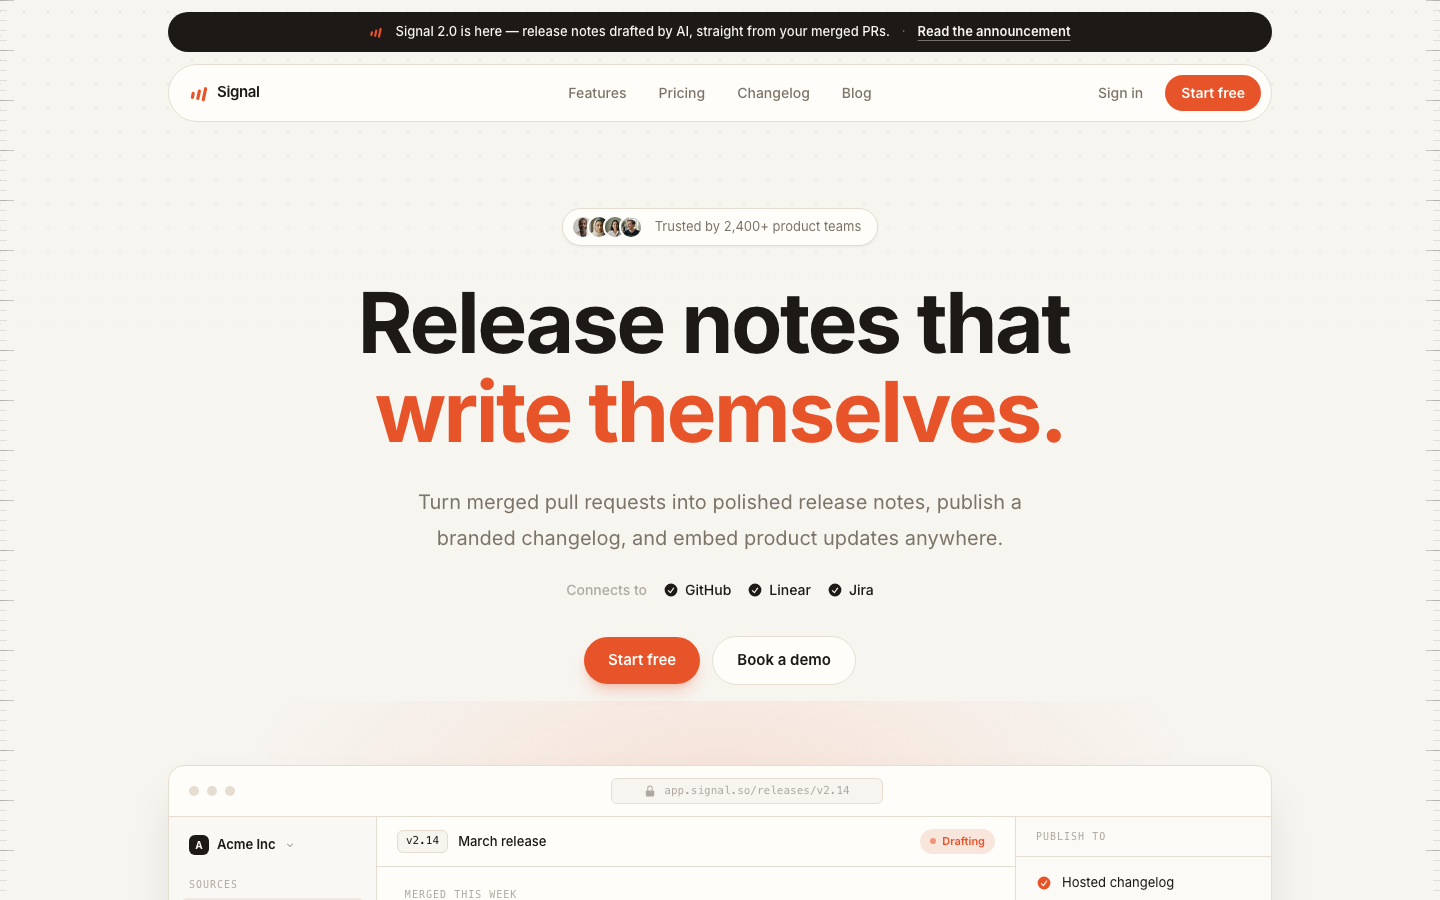
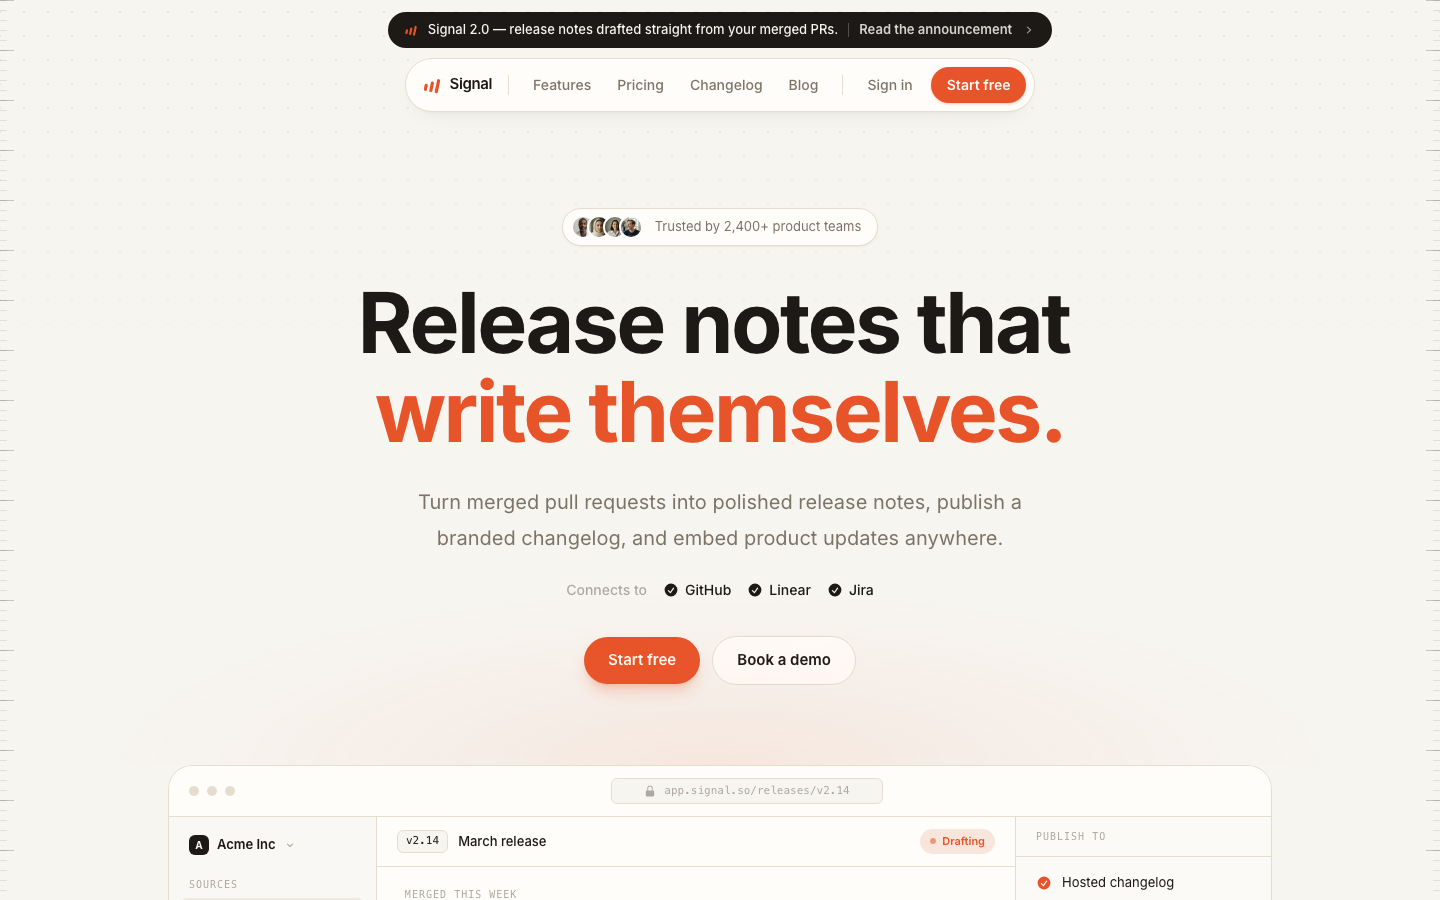
Header, page entrance, and hero bloom: one coherent arrival
Three things read as inconsistent on load, and they had one root cause
between them: above-the-fold chrome was riding the scroll-reveal system.

- Motion is now two systems, not one. [data-enter] is a pure CSS keyframe
  cascade that runs at first paint, for the header and everything above the
  fold; [data-reveal] keeps the IntersectionObserver for what is below it.
  An element already on screen must never wait to be told it is visible —
  that lag is why the announcement floated in while the nav sat still.
  The header now leads the cascade (banner → pill → trust → headline →
  copy → integrations → CTAs → window) on a 60ms beat.

- The header is two centred capsules. A short, very wide bar reads as
  "slightly rounded" no matter how large its radius is, so the announcement
  and the nav both hug their contents now; the nav shows its full link row
  from md up and the whole announcement is a single link, which gives a
  phone one big tap target and lets the label drop away below sm. The
  announcement also folds itself shut on scroll (grid 1fr → 0fr), so the
  fixed header stops covering a 7rem band of the page.

- The hero bloom no longer paints a hard line across the page. Its gradient
  used to still be tinted where its box ended; the ellipse is now anchored
  to the bottom of its box with radii sized so every edge sits past the
  final transparent stop. The product window fades out through a mask on
[…]

Changed region(s): [[0.0938, 0.0, 0.9062, 0.1244], [0.125, 0.0933, 0.1875, 0.1244]]

diff --git a/files/resources/css/site.css b/files/resources/css/site.css
@@ -69,11 +69,55 @@ body {
 }
 
 /*
-    The reveal system. main.js adds .js to <html> before first paint, then an
-    IntersectionObserver flips .is-visible as each [data-reveal] element scrolls
-    into view. Without JavaScript nothing is ever hidden. Stagger a group by
-    setting --reveal-delay inline or via the utility classes below.
+    Two motion systems, deliberately separate — this is the whole trick to a
+    page that arrives cleanly.
+
+    ENTRANCE — everything above the fold (the header, the hero, an inner
+    page's opener). [data-enter] elements animate themselves the moment the
+    page paints, in one ordered cascade, using nothing but a CSS keyframe.
+    Above-the-fold chrome must never wait to be *told* it is visible: an
+    IntersectionObserver fires a frame or two late and at its own pace, which
+    is exactly how a header ends up sitting still while the thing under it
+    floats in. Order the cascade with .enter-1 … .enter-8.
+
+    REVEAL — everything below the fold. main.js flips .is-visible on
+    [data-reveal] as each element scrolls into view. Stagger with
+    .reveal-1 … .reveal-5.
+
+    Both are gated on .js (set on <html> before first paint), so with
+    JavaScript off nothing is ever hidden.
 */
+@keyframes enter-rise {
+    from {
+        opacity: 0;
+        transform: translate3d(0, 12px, 0);
+    }
+
+    to {
+        opacity: 1;
+        transform: none;
+    }
+}
+
+.js [data-enter] {
+    opacity: 0;
+    animation: enter-rise 0.62s var(--ease-spring) both;
+    animation-delay: var(--enter-delay, 0ms);
+}
+
+/*
+    One 60ms beat between steps: fast enough that the page reads as a single
+    movement, slow enough to feel authored rather than accidental.
+*/
+.enter-1 { --enter-delay: 60ms; }
+.enter-2 { --enter-delay: 120ms; }
+.enter-3 { --enter-delay: 180ms; }
+.enter-4 { --enter-delay: 240ms; }
+.enter-5 { --enter-delay: 300ms; }
+.enter-6 { --enter-delay: 360ms; }
+.enter-7 { --enter-delay: 420ms; }
+.enter-8 { --enter-delay: 480ms; }
+
 .js [data-reveal] {
     opacity: 0;
     translate: 0 16px;
@@ -95,6 +139,11 @@ body {
 .reveal-5 { --reveal-delay: 375ms; }
 
 @media (prefers-reduced-motion: reduce) {
+    .js [data-enter] {
+        opacity: 1;
+        animation: none;
+    }
+
     .js [data-reveal] {
         opacity: 1;
         translate: 0 0;
@@ -196,26 +245,58 @@ body {
 /*
     The header pill: floats over the canvas; once the page scrolls, main.js
     sets data-scrolled and the shadow deepens so it reads as a raised bar.
+    The pill's arrival is the [data-enter] keyframe, so nothing here touches
+    opacity or transform — a transition on those would fight the animation.
 */
 #header .nav-pill {
-    box-shadow: none;
-    /*
-        #header .nav-pill outranks .js [data-reveal] (id + class beats class +
-        attribute), so its transition here must carry the reveal's opacity/
-        translate transitions too — otherwise this rule silently replaces them
-        and the pill snaps into view instead of fading up.
-    */
-    transition:
-        opacity 0.8s var(--ease-spring),
-        translate 0.8s var(--ease-spring),
-        box-shadow 0.35s ease;
-    transition-delay: var(--reveal-delay, 0ms);
+    box-shadow:
+        0 1px 2px color-mix(in oklab, var(--color-ink) 3%, transparent),
+        0 8px 24px -14px color-mix(in oklab, var(--color-ink) 14%, transparent);
+    transition: box-shadow 0.35s ease;
 }
 
 #header[data-scrolled] .nav-pill {
     box-shadow:
         0 1px 2px color-mix(in oklab, var(--color-ink) 7%, transparent),
         0 16px 40px -16px color-mix(in oklab, var(--color-ink) 22%, transparent);
+}
+
+/*
+    The announcement capsule folds itself away once the page scrolls, so the
+    fixed header stops covering a 7rem band of the page. The collapse is the
+    grid 1fr → 0fr trick: the row measures itself, so the bar can wrap onto
+    two lines on a phone and still close cleanly. Note the split of duties —
+    the outer wrapper carries [data-enter] (a finished keyframe holds its end
+    values above everything else in the cascade, so an element that animates
+    in can never also transition its own opacity later), the shell animates
+    the height, and the capsule itself fades.
+*/
+#header .announce-shell {
+    grid-template-rows: 1fr;
+    transition: grid-template-rows 0.4s var(--ease-out-quart);
+}
+
+#header[data-scrolled] .announce-shell {
+    grid-template-rows: 0fr;
+}
+
+#header .announce {
+    transition:
+        opacity 0.28s var(--ease-out-quart),
+        translate 0.4s var(--ease-out-quart);
+}
+
+#header[data-scrolled] .announce {
+    opacity: 0;
+    translate: 0 -6px;
+    pointer-events: none;
+}
+
+@media (prefers-reduced-motion: reduce) {
+    #header .announce-shell,
+    #header .announce {
+        transition: none;
+    }
 }
 
 /* The mobile menu panel — unfolds under the nav pill as a soft sheet. */
@@ -272,14 +353,34 @@ details.faq-item summary::-webkit-details-marker {
     -webkit-mask-image: linear-gradient(to bottom, black 0%, transparent 90%);
 }
 
-/* The warm accent bloom that sits behind the hero product window. */
+/*
+    The warm accent bloom above the hero product window.
+
+    The geometry matters more than the colour: the ellipse is anchored to the
+    BOTTOM-CENTRE of its box (at 50% 100%) and its radii are sized so every
+    edge of that box sits past the final transparent stop — the top edge at
+    100% of the ray, the sides at 1/0.55 ≈ 91%, the corners further still. A
+    bloom whose gradient is still tinted where its box ends paints a hard
+    horizontal line across the page, which is exactly what this used to do.
+*/
 .glow {
     background: radial-gradient(
-        ellipse 55% 60% at 50% 20%,
-        color-mix(in oklab, var(--color-accent) 13%, transparent) 0%,
-        color-mix(in oklab, var(--color-accent) 5%, transparent) 45%,
-        transparent 75%
+        ellipse 55% 100% at 50% 100%,
+        color-mix(in oklab, var(--color-accent) 9%, transparent) 0%,
+        color-mix(in oklab, var(--color-accent) 3.5%, transparent) 42%,
+        transparent 78%
     );
+}
+
+/*
+    The hero product window dissolves into the canvas instead of stopping at
+    a border. Masking the element itself (rather than laying a canvas-coloured
+    fade over it) takes the border and the drop shadow with it, so there is no
+    edge left to notice.
+*/
+.hero-window {
+    -webkit-mask-image: linear-gradient(to bottom, black 68%, transparent 99%);
+    mask-image: linear-gradient(to bottom, black 68%, transparent 99%);
 }
 
 /*

diff --git a/files/public/js/main.js b/files/public/js/main.js
@@ -1,8 +1,11 @@
 /*
     Signal — the site's small behavior layer.
 
-    - .js on <html> gates the reveal system (no JS, nothing hidden)
-    - IntersectionObserver flips .is-visible on [data-reveal]
+    - .js on <html> gates both motion systems (no JS, nothing hidden)
+    - above the fold, [data-enter] needs nothing from this file: it is a pure
+      CSS keyframe cascade that runs at first paint (see site.css). Nothing
+      already on screen should wait for an observer to tell it it is visible
+    - below the fold, an IntersectionObserver flips .is-visible on [data-reveal]
     - the header pill deepens its shadow once the page scrolls
     - the mobile menu toggles .menu-open on <html>
     - spotlight cards track the pointer into --mx / --my

diff --git a/files/resources/views/components/nav.blade.php b/files/resources/views/components/nav.blade.php
@@ -6,50 +6,71 @@
     'ctaText' => 'Start free',
     'ctaLink' => '/pricing',
     'showBanner' => '1',
-    'bannerText' => 'Signal 2.0 is here — release notes drafted by AI, straight from your merged PRs.',
+    'bannerText' => 'Signal 2.0 — release notes drafted straight from your merged PRs.',
     'bannerLinkText' => 'Read the announcement',
     'bannerLink' => '/changelog',
 ])
 <!--
-    The site header: an announcement bar and a floating pill nav, both
-    riding a fixed wrapper so they hover over the canvas. The pill deepens
-    its shadow once the page scrolls (see main.js).
+    The site header: two centred capsules floating over the canvas — a compact
+    announcement pill and, under it, the nav. Both are sized to their contents
+    (a short, wide bar reads as "slightly rounded" no matter how large its
+    radius is; a capsule only looks like a capsule when its ends are in view),
+    and both arrive through the [data-enter] cascade in resources/css/site.css
+    so the header leads the page in rather than appearing beside it. The whole
+    announcement is one link, so a phone gets a full-width tap target and the
+    "Read the announcement" label can drop away below sm without losing it.
 -->
 <header id="header" class="fixed inset-x-0 top-0 z-40 pt-3">
-    <!-- Same container as every section (max-w-6xl + px-6) so the banner, pill, and page content share one left edge. -->
-    <div class="mx-auto w-full max-w-6xl px-6">
+    <!-- Same container as every section (max-w-6xl + px-6) so the header shares the page's left edge. -->
+    <div class="mx-auto flex w-full max-w-6xl flex-col items-center px-6">
 
     @if ($showBanner)
-    <div class="mb-3 flex items-center justify-center gap-x-3 gap-y-1 rounded-full bg-ink px-5 py-2.5 text-[13px] text-canvas max-sm:flex-wrap" data-reveal>
-        <svg viewBox="0 0 24 24" class="size-3.5 shrink-0 text-accent" fill="currentColor" aria-hidden="true"><g transform="rotate(12 12 12)"><rect x="3.4" y="12" width="3.8" height="8.6" rx="1.9"/><rect x="10.1" y="7.8" width="3.8" height="12.8" rx="1.9"/><rect x="16.8" y="3.4" width="3.8" height="17.2" rx="1.9"/></g></svg>
-        <p class="text-center font-medium">{{ $bannerText }}</p>
-        <span class="text-canvas/40 max-sm:hidden">·</span>
-        <a href="{{ $bannerLink }}" class="shrink-0 font-semibold underline decoration-canvas/40 underline-offset-4 transition-colors duration-200 hover:decoration-canvas">{{ $bannerLinkText }}</a>
+    <!--
+        Three nested elements on purpose: the outer one plays the entrance
+        keyframe, the shell collapses its own height on scroll (grid 1fr → 0fr),
+        and the capsule inside fades. See #header .announce-shell in site.css.
+    -->
+    <div class="w-full max-w-full" data-enter>
+        <div class="announce-shell grid w-full">
+            <div class="overflow-hidden">
+                <a href="{{ $bannerLink }}" class="announce group mx-auto mb-2.5 flex w-fit max-w-full items-center gap-2.5 rounded-full bg-ink py-2 pr-4 pl-4 text-[13px] text-canvas transition-colors duration-200 hover:bg-ink/90">
+                    <svg viewBox="0 0 24 24" class="size-3.5 shrink-0 text-accent" fill="currentColor" aria-hidden="true"><g transform="rotate(12 12 12)"><rect x="3.4" y="12" width="3.8" height="8.6" rx="1.9"/><rect x="10.1" y="7.8" width="3.8" height="12.8" rx="1.9"/><rect x="16.8" y="3.4" width="3.8" height="17.2" rx="1.9"/></g></svg>
+                    <span class="min-w-0 font-medium max-sm:line-clamp-2">{{ $bannerText }}</span>
+                    <span class="hidden h-3.5 w-px shrink-0 bg-canvas/25 sm:block" aria-hidden="true"></span>
+                    <span class="hidden shrink-0 font-semibold text-canvas/85 transition-colors duration-200 group-hover:text-canvas sm:block">{{ $bannerLinkText }}</span>
+                    <svg viewBox="0 0 20 20" class="size-3.5 shrink-0 fill-canvas/60 transition-all duration-200 group-hover:translate-x-0.5 group-hover:fill-canvas" aria-hidden="true"><path fill-rule="evenodd" d="M7.21 14.77a.75.75 0 0 1 .02-1.06L11.168 10 7.23 6.29a.75.75 0 1 1 1.04-1.08l4.5 4.25a.75.75 0 0 1 0 1.08l-4.5 4.25a.75.75 0 0 1-1.06-.02Z" clip-rule="evenodd"/></svg>
+                </a>
+            </div>
+        </div>
     </div>
     @endif
 
-    <div class="nav-pill relative flex items-center gap-2 rounded-full border border-line bg-panel py-2.5 pr-2.5 pl-5" data-reveal>
+    <div class="nav-pill enter-1 relative flex w-full items-center gap-2 rounded-full border border-line bg-panel py-2 pr-2 pl-4 md:w-auto" data-enter>
 
-        <a href="/" aria-label="Homepage" class="flex items-center gap-2">
+        <a href="/" aria-label="Homepage" class="flex shrink-0 items-center gap-2 pr-1">
             <svg viewBox="0 0 24 24" class="size-5 text-accent" fill="currentColor" aria-hidden="true"><g transform="rotate(12 12 12)"><rect x="3.4" y="12" width="3.8" height="8.6" rx="1.9"/><rect x="10.1" y="7.8" width="3.8" height="12.8" rx="1.9"/><rect x="16.8" y="3.4" width="3.8" height="17.2" rx="1.9"/></g></svg>
             <span class="text-[15px] font-semibold tracking-tight text-ink">{{ $brand }}</span>
         </a>
 
-        <nav class="absolute left-1/2 flex -translate-x-1/2 items-center gap-1 max-lg:hidden" aria-label="Main">
+        <span class="mx-1 h-5 w-px shrink-0 bg-line max-md:hidden" aria-hidden="true"></span>
+
+        <nav class="flex items-center gap-0.5 max-md:hidden" aria-label="Main">
             @foreach ($links as $link)
-                <a href="{{ $link->url }}" class="rounded-full px-3.5 py-1.5 text-sm font-medium text-muted transition-colors duration-200 hover:bg-raised hover:text-ink">{{ $link->text }}</a>
+                <a href="{{ $link->url }}" class="rounded-full px-3 py-1.5 text-sm font-medium text-muted transition-colors duration-200 hover:bg-raised hover:text-ink">{{ $link->text }}</a>
             @endforeach
         </nav>
 
-        <div class="ml-auto flex items-center gap-2">
-            <a href="{{ $signInLink }}" class="rounded-full px-3.5 py-1.5 text-sm font-medium text-muted transition-colors duration-200 hover:text-ink max-sm:hidden">{{ $signInText }}</a>
-            <a href="{{ $ctaLink }}" class="rounded-full bg-accent px-4 py-2 text-sm font-semibold text-accent-ink transition-colors duration-200 hover:bg-accent-deep">{{ $ctaText }}</a>
-            <button type="button" data-menu-button aria-expanded="false" aria-label="Toggle menu" class="flex size-9 items-center justify-center rounded-full border border-line text-ink lg:hidden">
+        <span class="mx-1 h-5 w-px shrink-0 bg-line max-md:hidden" aria-hidden="true"></span>
+
+        <div class="ml-auto flex shrink-0 items-center gap-1.5 md:ml-0">
+            <a href="{{ $signInLink }}" class="rounded-full px-3 py-1.5 text-sm font-medium text-muted transition-colors duration-200 hover:bg-raised hover:text-ink max-sm:hidden">{{ $signInText }}</a>
+            <a href="{{ $ctaLink }}" class="rounded-full bg-accent px-4 py-2 text-sm font-semibold text-accent-ink shadow-sm shadow-accent/25 transition-colors duration-200 hover:bg-accent-deep">{{ $ctaText }}</a>
+            <button type="button" data-menu-button aria-expanded="false" aria-label="Toggle menu" class="flex size-9 items-center justify-center rounded-full border border-line text-ink transition-colors duration-200 hover:bg-raised md:hidden">
                 <svg viewBox="0 0 20 20" class="size-4 fill-current" aria-hidden="true"><path fill-rule="evenodd" d="M2 4.75A.75.75 0 0 1 2.75 4h14.5a.75.75 0 0 1 0 1.5H2.75A.75.75 0 0 1 2 4.75Zm0 10.5a.75.75 0 0 1 .75-.75h14.5a.75.75 0 0 1 0 1.5H2.75a.75.75 0 0 1-.75-.75ZM2 10a.75.75 0 0 1 .75-.75h14.5a.75.75 0 0 1 0 1.5H2.75A.75.75 0 0 1 2 10Z" clip-rule="evenodd"/></svg>
             </button>
         </div>
 
-        <div data-mobile-panel class="absolute inset-x-0 top-full mt-2 rounded-2xl border border-line bg-panel p-3 shadow-xl shadow-ink/10 lg:hidden">
+        <div data-mobile-panel class="absolute inset-x-0 top-full mt-2 rounded-2xl border border-line bg-panel p-3 shadow-xl shadow-ink/10 md:hidden">
             <nav class="flex flex-col" aria-label="Mobile">
                 @foreach ($links as $link)
                     <a href="{{ $link->url }}" class="rounded-xl px-4 py-2.5 text-[15px] font-medium text-ink transition-colors duration-200 hover:bg-raised">{{ $link->text }}</a>

diff --git a/files/resources/views/components/sections/hero.blade.php b/files/resources/views/components/sections/hero.blade.php
@@ -28,7 +28,7 @@
         <div class="flex flex-col items-center text-center">
 
             @if ($showTrust)
-            <p class="flex items-center gap-3 rounded-full border border-line bg-panel py-1.5 pr-4 pl-2 text-[13px] text-muted shadow-sm shadow-ink/5" data-reveal>
+            <p class="enter-2 flex items-center gap-3 rounded-full border border-line bg-panel py-1.5 pr-4 pl-2 text-[13px] text-muted shadow-sm shadow-ink/5" data-enter>
                 <span class="flex -space-x-2">
                     @foreach ($avatars as $avatar)
                         <img src="{{ $avatar->image }}" alt="" class="size-6 rounded-full border-2 border-panel object-cover" loading="lazy">
@@ -38,15 +38,15 @@
             </p>
             @endif
 
-            <h1 class="font-display reveal-1 mt-8 text-5xl leading-[1.06] font-bold tracking-[-0.03em] text-balance sm:text-7xl lg:text-[5.25rem]" data-reveal>
+            <h1 class="font-display enter-3 mt-8 text-5xl leading-[1.06] font-bold tracking-[-0.03em] text-balance sm:text-7xl lg:text-[5.25rem]" data-enter>
                 {{ $heading1 }}@if ($showCursor)<span class="cursor-bar" aria-hidden="true"></span>@endif
                 <br>
                 <span class="text-accent">{{ $heading2 }}</span>
             </h1>
 
-            <p class="reveal-2 mt-7 max-w-2xl text-lg/8 text-pretty text-muted sm:text-xl/9" data-reveal>{{ $body }}</p>
+            <p class="enter-4 mt-7 max-w-2xl text-lg/8 text-pretty text-muted sm:text-xl/9" data-enter>{{ $body }}</p>
 
-            <p class="reveal-3 mt-6 flex flex-wrap items-center justify-center gap-x-4 gap-y-2 text-sm text-muted" data-reveal>
+            <p class="enter-5 mt-6 flex flex-wrap items-center justify-center gap-x-4 gap-y-2 text-sm text-muted" data-enter>
                 <span class="font-medium text-faint">{{ $connectsLabel }}</span>
                 @foreach ($integrations as $integration)
                     <span class="flex items-center gap-1.5">
@@ -56,7 +56,7 @@
                 @endforeach
             </p>
 
-            <div class="reveal-4 mt-9 flex flex-wrap items-center justify-center gap-3" data-reveal>
+            <div class="enter-6 mt-9 flex flex-wrap items-center justify-center gap-3" data-enter>
                 <a href="{{ $ctaLink }}" class="rounded-full bg-accent px-6 py-3 text-[15px] font-semibold text-accent-ink shadow-lg shadow-accent/25 transition-all duration-200 hover:bg-accent-deep hover:shadow-accent/35">{{ $ctaText }}</a>
                 <a href="{{ $secondaryLink }}" class="rounded-full border border-line bg-panel px-6 py-3 text-[15px] font-semibold text-ink transition-colors duration-200 hover:bg-raised">{{ $secondaryText }}</a>
             </div>
@@ -68,10 +68,11 @@
             Left: the connected repos and channels. Middle: a merged PR feed
             becoming a drafted release. Right: the publish panel.
         -->
-        <div class="reveal-5 relative mt-16 sm:mt-20" data-reveal aria-hidden="true">
-            <div class="glow pointer-events-none absolute -inset-x-10 -top-16 bottom-0" ></div>
+        <div class="enter-7 relative mt-16 sm:mt-20" data-enter aria-hidden="true">
+            <!-- The bloom sits entirely ABOVE the window; see .glow in site.css for why its box ends where it does. -->
+            <div class="glow pointer-events-none absolute -inset-x-40 -top-56 h-56"></div>
 
-            <div class="pointer-events-none relative select-none overflow-hidden rounded-2xl border border-line bg-panel shadow-2xl shadow-ink/15">
+            <div class="hero-window pointer-events-none relative select-none overflow-hidden rounded-3xl border border-line bg-panel shadow-[0_2px_4px_-2px_rgba(0,0,0,0.06),0_24px_60px_-24px_rgba(0,0,0,0.22)]">
                 <div class="flex items-center gap-2 border-b border-line px-5 py-3">
                     <span class="size-2.5 rounded-full bg-line"></span>
                     <span class="size-2.5 rounded-full bg-line"></span>
@@ -226,8 +227,6 @@
                 </div>
             </div>
 
-            <!-- Fade the window into the canvas -->
-            <div class="pointer-events-none absolute inset-x-0 bottom-0 h-28 bg-gradient-to-t from-canvas to-transparent"></div>
         </div>
     </div>
 </section>

diff --git a/files/resources/views/components/sections/page-header.blade.php b/files/resources/views/components/sections/page-header.blade.php
@@ -14,14 +14,14 @@
 
     <div class="relative mx-auto w-full max-w-3xl px-6 text-center">
         @if ($showIcon)
-        <span class="mx-auto flex size-12 items-center justify-center rounded-2xl bg-ink shadow-lg shadow-ink/20" data-reveal>
+        <span class="enter-2 mx-auto flex size-12 items-center justify-center rounded-2xl bg-ink shadow-lg shadow-ink/20" data-enter>
             <svg viewBox="0 0 24 24" class="size-5 text-accent" fill="currentColor" aria-hidden="true"><g transform="rotate(12 12 12)"><rect x="3.4" y="12" width="3.8" height="8.6" rx="1.9"/><rect x="10.1" y="7.8" width="3.8" height="12.8" rx="1.9"/><rect x="16.8" y="3.4" width="3.8" height="17.2" rx="1.9"/></g></svg>
         </span>
         @endif
-        <p class="reveal-1 mt-6 font-mono text-[11px] font-medium tracking-widest text-accent uppercase" data-reveal>{{ $eyebrow }}</p>
-        <h1 class="font-display reveal-1 mt-4 text-4xl font-bold tracking-tight text-balance sm:text-6xl" data-reveal>{{ $heading }}</h1>
+        <p class="enter-3 mt-6 font-mono text-[11px] font-medium tracking-widest text-accent uppercase" data-enter>{{ $eyebrow }}</p>
+        <h1 class="font-display enter-4 mt-4 text-4xl font-bold tracking-tight text-balance sm:text-6xl" data-enter>{{ $heading }}</h1>
         @if ($body)
-        <p class="reveal-2 mx-auto mt-5 max-w-xl text-lg/8 text-pretty text-muted" data-reveal>{{ $body }}</p>
+        <p class="enter-5 mx-auto mt-5 max-w-xl text-lg/8 text-pretty text-muted" data-enter>{{ $body }}</p>
         @endif
     </div>
 </section>
